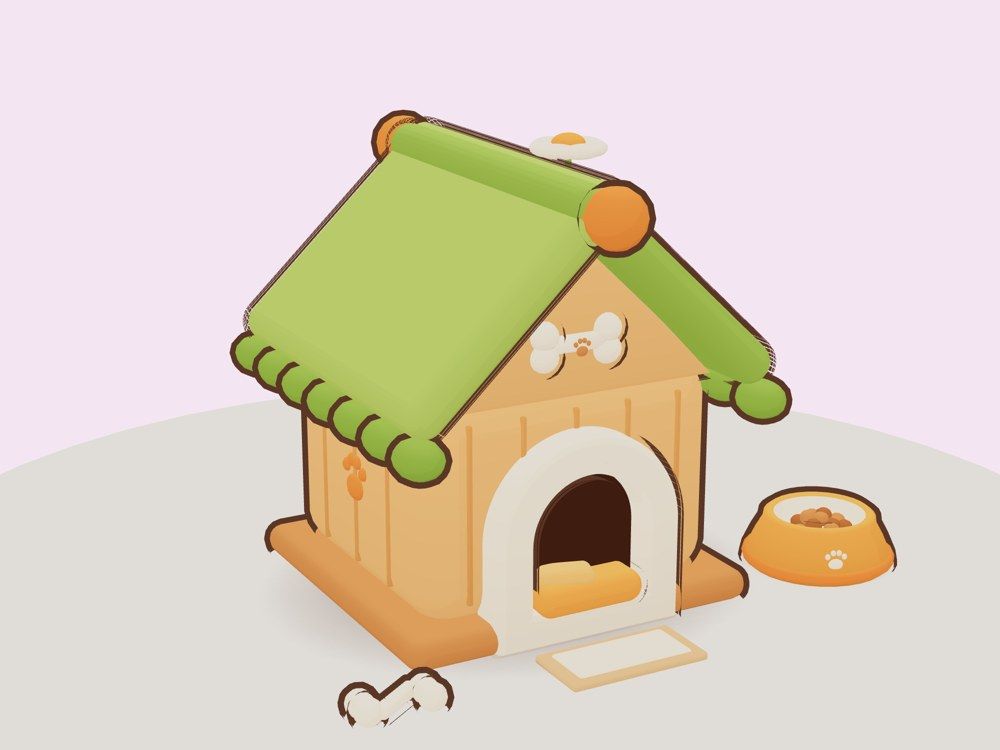
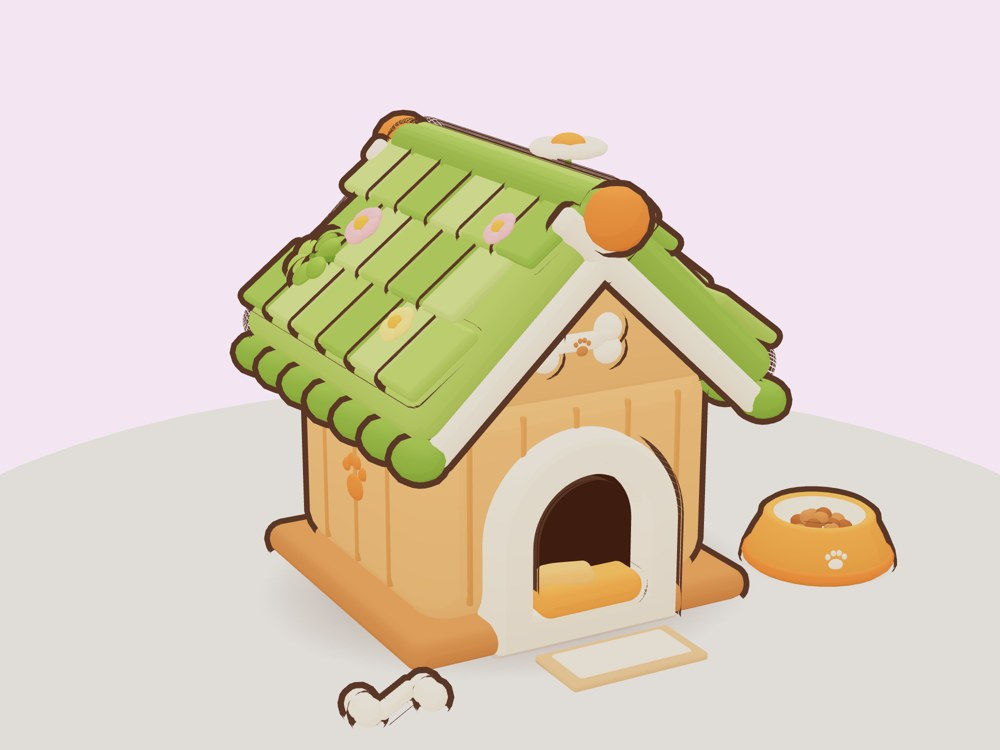
Dog house roof: staggered rows of rounded shingles in three greens, cream barge boards, flowers and clover tufts growing in the moss
Claude-Session: https://claude.ai/code/session_01CNaBwK9YXZ5oYtTd2WVtoL

Changed region(s): [[0.217, 0.1533, 0.806, 0.644], [0.651, 0.276, 0.682, 0.3373]]

diff --git a/src/props/items/exterior.js b/src/props/items/exterior.js
@@ -182,7 +182,7 @@ const bone = (k, pos, len, r, c, o = {}) => { k.stick([r * 0.6, len], pos, c, { 
 const gableGeo = (w, h, d) => { const sh = new THREE.Shape(); sh.moveTo(-w / 2, 0); sh.lineTo(w / 2, 0); sh.lineTo(0, h); sh.lineTo(-w / 2, 0)
   const g = new THREE.ExtrudeGeometry(sh, { depth: d, bevelEnabled: true, bevelThickness: 0.01, bevelSize: 0.01, bevelSegments: 2 }); g.translate(0, 0, -d / 2); g.computeVertexNormals(); return g }
 defineProp('dogHouse', { name: "Pip's dog house", size: [0.62, 0.46, 0.46], tags: ['outdoor', 'pet'],
-  pal: { base: '#c98552', wood: '#f2b274', plank: '#dc9658', roof: '#9cc65a', roof2: '#88b74c', scallop: '#7fae45', ridge: '#e3843f', hole: '#4a2f24', trim: '#fff4e2', cushion: '#f29a46', cushion2: '#f7b56a', plaque: '#fff4e2', pawInk: '#c98552', sidePaw: '#e3843f', bone: '#fff4e2', mat: '#fbf1e0', matEdge: '#e6b98a' },
+  pal: { base: '#c98552', wood: '#f2b274', plank: '#dc9658', roof: '#9cc65a', roof2: '#88b74c', roof3: '#b2d672', f1: '#f7b5c8', f2: '#ffe07a', eye: '#f2b33c', clover: '#86b545', clover2: '#9cc952', cloverStem: '#6f9e3a', scallop: '#7fae45', ridge: '#e3843f', hole: '#4a2f24', trim: '#fff4e2', cushion: '#f29a46', cushion2: '#f7b56a', plaque: '#fff4e2', pawInk: '#c98552', sidePaw: '#e3843f', bone: '#fff4e2', mat: '#fbf1e0', matEdge: '#e6b98a' },
   opts: { bowl: true, bone: true, shadow: false } }, (k, o) => {
   const W = 0.3, D = 0.28, B = 0.03, H = 0.2, top = B + H, GH = 0.14, ang = Math.atan2(GH, W / 2) // body, gable rise, roof pitch
   k.box([W + 0.06, B, D + 0.06], [0, B / 2, 0], 'base', { r: 0.014, seg: 2 }) // the little base it stands on
@@ -196,6 +196,19 @@ defineProp('dogHouse', { name: "Pip's dog house", size: [0.62, 0.46, 0.46], tags
   for (const sd of [-1, 1]) {
     const cx = sd * (Math.cos(ang) * (L / 2 - 0.05)) + sd * Math.sin(ang) * t / 2, cy = top + GH - Math.sin(ang) * (L / 2 - 0.05) + Math.cos(ang) * t / 2
     k.puff([L, t, D + 0.1], [cx, cy, 0], sd < 0 ? 'roof' : 'roof2', { rot: [0, 0, -sd * ang], bulge: 0.35, hi: 0.2 })
+    // on the slab (its own frame: u runs down the slope, z along the ridge, y off the roof): staggered rows of little
+    // rounded shingles, cream barge boards on the gable ends, and a few flowers + a clover tuft growing in the moss
+    k.within(new THREE.Matrix4().makeTranslation(cx, cy, 0).multiply(new THREE.Matrix4().makeRotationZ(-sd * ang)), () => {
+      const at = (u, y, z) => [sd * u, y, z], DZ = D + 0.1, n = 6, tw = DZ / n
+      for (let r = 0; r < 3; r++) for (let i = 0; i < n + (r % 2); i++) {
+        const z = -DZ / 2 + tw * (i + (r % 2 ? 0 : 0.5)); if (Math.abs(z) > DZ / 2 - 0.012) continue
+        k.box([0.08, 0.012, tw * 0.94], at(-L / 2 + 0.07 + r * 0.075, t / 2 + 0.002 + r * 0.0015, z), (i + r) % 3 === 0 ? 'roof3' : (i + r) % 3 === 1 ? 'roof' : 'roof2', { rot: [0, 0, sd * 0.1], r: 0.0058, seg: 2, hi: 0.25, shade: 0.1 })
+      }
+      for (const sz of [-1, 1]) k.box([L + 0.01, 0.026, 0.016], at(0, -t / 2 - 0.006, sz * (DZ / 2 - 0.004)), 'trim', { r: 0.007, seg: 2, hi: 0.1 })
+      if (sd < 0) { flower(k, at(0.0, t / 2 + 0.016, -0.08), 0.026, 'f1', 'eye'); flower(k, at(0.07, t / 2 + 0.018, 0.1), 0.022, 'f2', 'eye'); flower(k, at(-0.05, t / 2 + 0.014, 0.12), 0.02, 'f1', 'eye')
+        k.within(new THREE.Matrix4().makeTranslation(...at(0.05, t / 2 + 0.006, -0.12)).multiply(new THREE.Matrix4().makeRotationX(-PI / 2)), () => clover(k, 0.6, 1)) }
+      else { flower(k, at(0.04, t / 2 + 0.018, -0.1), 0.024, 'f2', 'eye'); k.within(new THREE.Matrix4().makeTranslation(...at(-0.02, t / 2 + 0.006, 0.09)).multiply(new THREE.Matrix4().makeRotationX(-PI / 2)), () => clover(k, 0.55, -1)) }
+    })
     const ex = sd * (Math.cos(ang) * (L - 0.05) + Math.sin(ang) * t * 0.3), ey = top + GH - Math.sin(ang) * (L - 0.05) - 0.006
     for (let i = 0; i < 7; i++) k.ball([0.022, 0.018, 0.028], [ex, ey, -(D + 0.08) / 2 + (D + 0.08) * i / 6], 'scallop', { lo: true, hi: 0.15 })
   }
